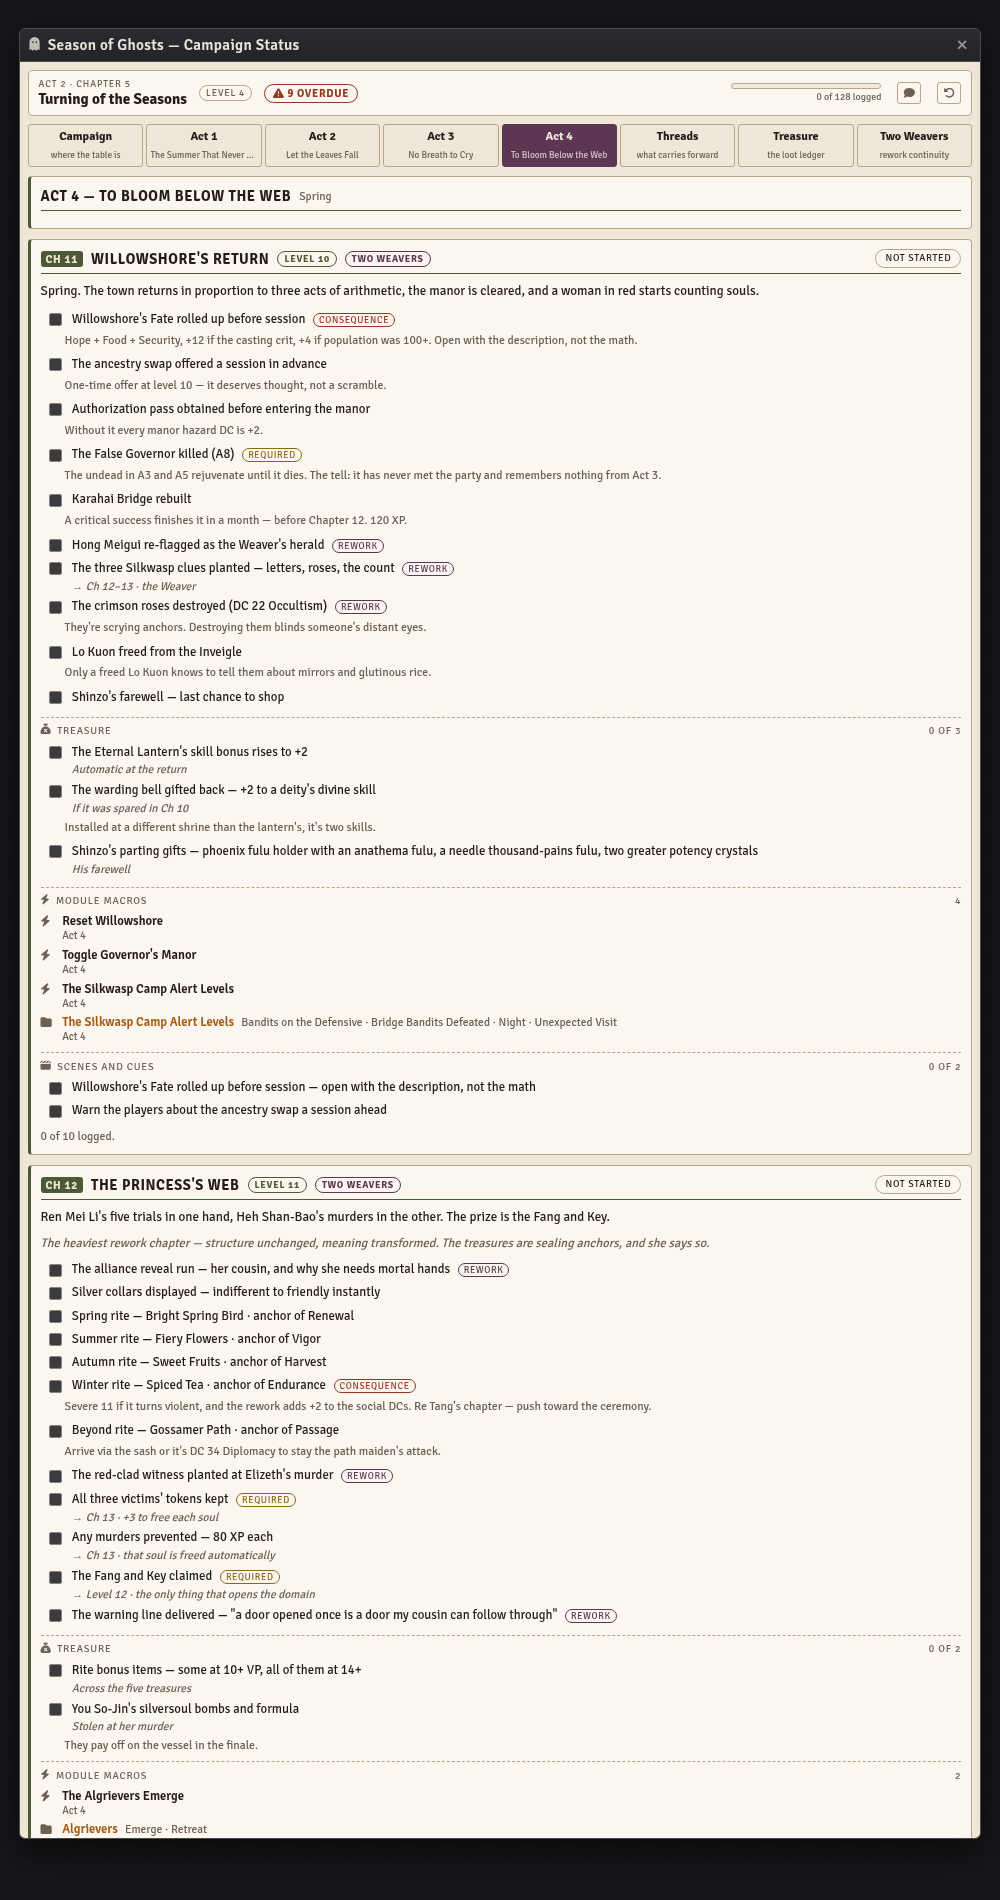
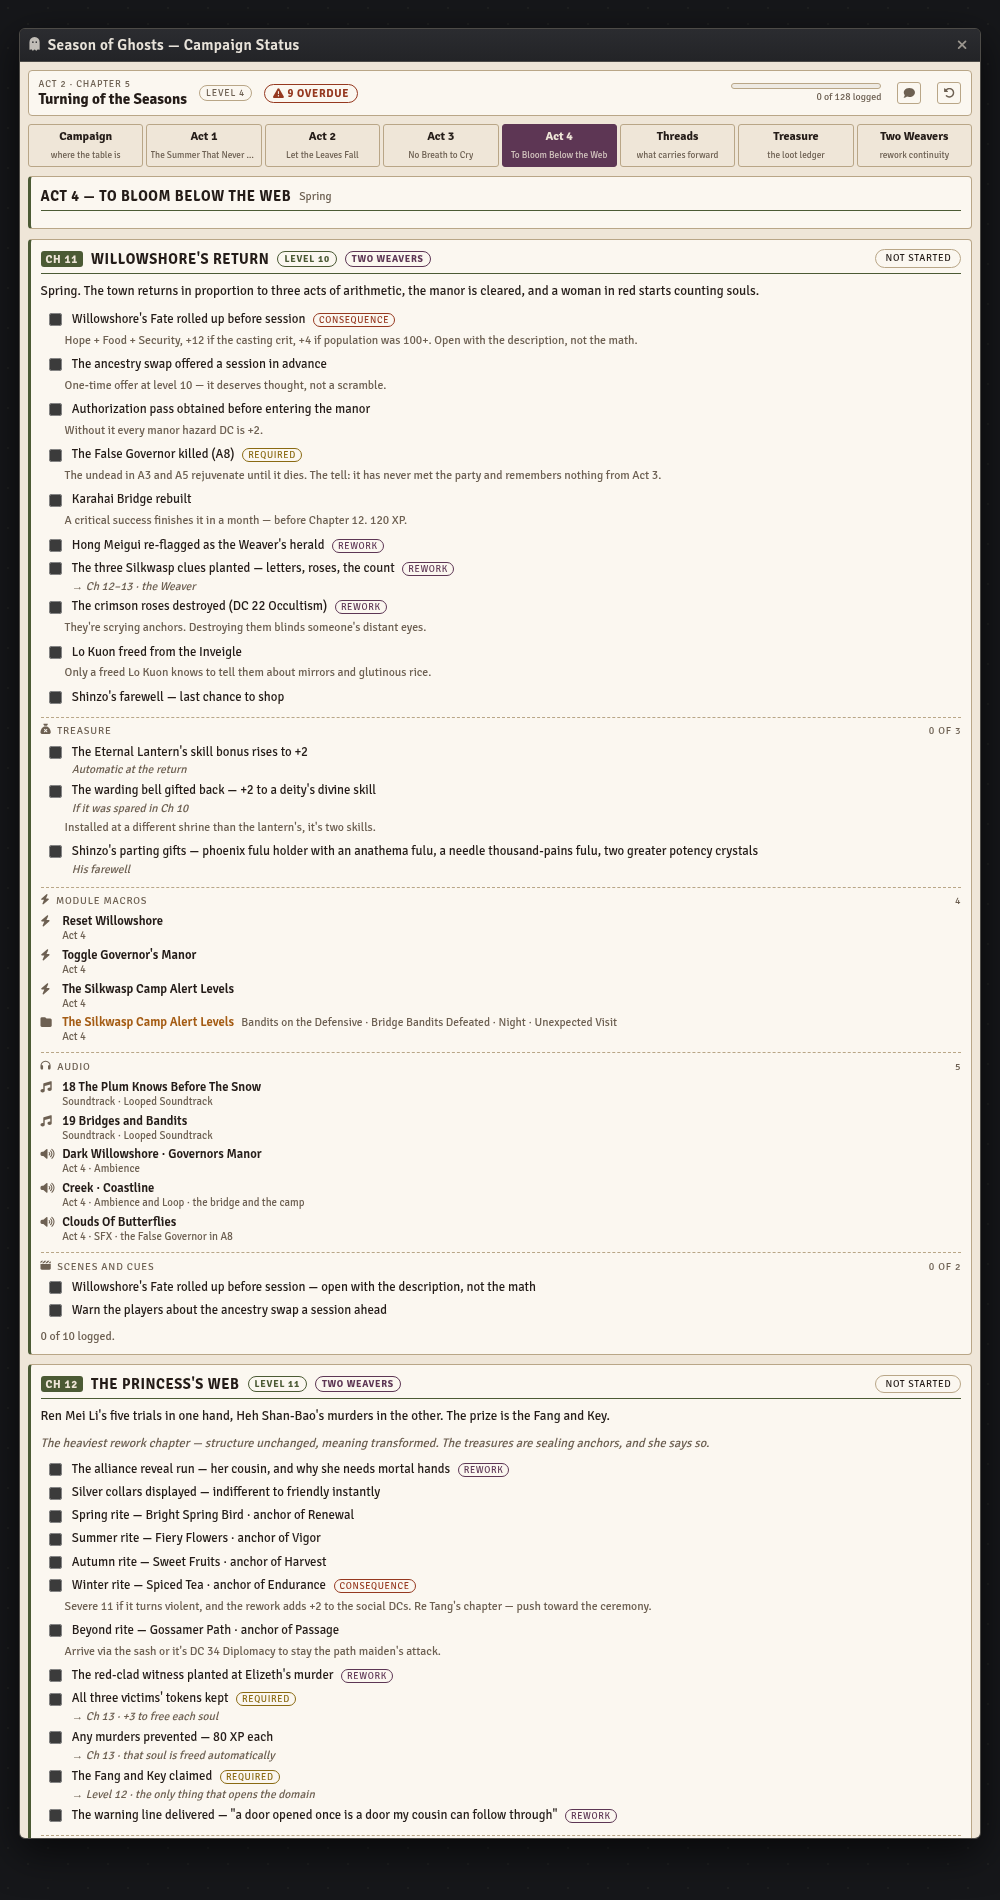
Campaign tracker: the module's playlists, per chapter
Ambience, loops, and SFX matched to the beats that want them — Arms of the
Drowned against the Bridge Shrine haunt, Barn Fire against week 8, Old Tree
Falling against the same D2 beat as the Sugi Tree Falls macros.

The looped soundtrack lines up with the chapters almost exactly, so all 21
numbered tracks are placed against the chapter each was written for, from
02 The Summer That Never Was to 22 The Governor's Den. Checked: every
number 02-22 appears once, none missing, none doubled.

Generic beds present in every act — Indoors, Woods, Willowshore, the Mist
and Fog set, the River loop — live under "Always to hand" on the campaign
tab with the Submacros and the theme, rather than repeating thirteen times.

Four cues that wouldn't pin down are marked "placed by guess" in place.

Changed region(s): [[0.031, 0.5589, 0.651, 0.9626], [0.868, 0.7142, 0.961, 0.7453]]

diff --git a/macros/season-of-ghosts/campaign-status-tracker.js b/macros/season-of-ghosts/campaign-status-tracker.js
@@ -508,6 +508,87 @@ const MODULE_MACROS = {
   ]
 };
 
+/* -------------------------------------------------- the module's playlists
+   The same module ships playlists per act — Ambience, Loop, and SFX — plus a
+   22-track looped soundtrack whose names line up with the chapters almost
+   exactly. Listed the same way as the macros: reference, not remote control.
+
+   `always` holds the generic beds that appear in nearly every act's Ambience
+   list, so they aren't repeated against all thirteen chapters. */
+const AUDIO = {
+  always: [
+    { name: "Indoors · Woods · Willowshore · Willowshore Hinterlands", from: "Ambience, every act" },
+    { name: "Mist Indoors · Mist Outdoors · Dense Fog", from: "Ambience, every act" },
+    { name: "River", from: "Loop, Acts 1–2 and 4" }
+  ],
+  chapters: {
+    1: [{ name: "Occupied Willowshore", from: "Act 1 · Ambience" },
+        { name: "Eternal Lantern", from: "Act 1 · Loop" },
+        { name: "Lighting The Eternal Lantern", from: "Act 1 · SFX" }],
+    2: [{ name: "Occupied Willowshore", from: "Act 1 · Ambience" },
+        { name: "Rowdy Celebration", from: "Act 1 · Loop" },
+        { name: "Rowdy Celebration 1", from: "Act 1 · SFX" }],
+    3: [{ name: "Canary Inn", from: "Act 1 · Ambience" },
+        { name: "Singing", from: "Act 1 · Loop", note: "the Canary Inn approach" },
+        { name: "Wind", from: "Act 1 · Ambience" }],
+    4: [{ name: "The Lumber Camp", from: "Act 1 · Ambience" },
+        { name: "Ritual Chanting", from: "Act 1 · Loop" },
+        { name: "Interrupting The Ritual", from: "Act 1 · SFX", note: "cut the chant the instant it breaks" }],
+    5: [{ name: "Festival", from: "Act 2 · Ambience", note: "week 3" },
+        { name: "Barn Fire", from: "Act 2 · Ambience", note: "week 8" },
+        { name: "Feast Of The Kami", from: "Act 2 · Ambience", note: "week 10" }],
+    6: [{ name: "Rain · Thunderstorm", from: "Act 2 · Ambience", note: "days 2 and 3" },
+        { name: "Waterfall", from: "Act 2 · Loop", note: "the Mountain Shrine" },
+        { name: "Arms of the Drowned", from: "Act 2 · SFX", note: "the Bridge Shrine haunt" },
+        { name: "Terrifying Roar", from: "Act 2 · SFX" },
+        { name: "Lightning Bolt", from: "Act 2 · SFX", note: "Iogaka" }],
+    7: [{ name: "Old Large Monastery", from: "Act 2 · Ambience" },
+        { name: "Kugaptees Grave", from: "Act 2 · Ambience", note: "E16" }],
+    8: [{ name: "Governor's Manor", from: "Act 3 · Ambiances" },
+        { name: "Dark Willowshore", from: "Act 3 · Ambiances" },
+        { name: "Buildings Collapsing", from: "Act 3 · Loop", note: "the Structural Collapse" },
+        { name: "Pounding at the Manor Walls · Howling Crowd", from: "Act 3 · Loop", note: "the nightly crowd" },
+        { name: "Mindscape Shift", from: "Act 3 · SFX" },
+        { name: "The Manor is Breached", from: "Act 3 · SFX" }],
+    9: [{ name: "Seance 1 · Seance 2", from: "Act 3 · Seance", note: "Event 12" },
+        { name: "Ending the Seance", from: "Act 3 · SFX" },
+        { name: "Borderlands", from: "Act 3 · Ambiances", note: "Between Life and Death" },
+        { name: "Portal Opens", from: "Act 3 · SFX", guess: true }],
+    10: [{ name: "Karahai Village Day · Karahai Village Night", from: "Act 3 · Ambiances" },
+         { name: "Karahai Fortress", from: "Act 3 · Ambiances and Loop" },
+         { name: "Dining Hall · Shrine · Baths", from: "Act 3 · Loop", note: "fortress rooms" },
+         { name: "Invisible Flames", from: "Act 3 · Ambiances", guess: true },
+         { name: "Warding Bell", from: "Act 3 · SFX", note: "C11" }],
+    11: [{ name: "Dark Willowshore · Governors Manor", from: "Act 4 · Ambience" },
+         { name: "Creek · Coastline", from: "Act 4 · Ambience and Loop", note: "the bridge and the camp" },
+         { name: "Clouds Of Butterflies", from: "Act 4 · SFX", note: "the False Governor in A8" }],
+    12: [{ name: "Softly Playing Flute", from: "Act 4 · Ambience", note: "the yohoi fears it" },
+         { name: "Creaky Building", from: "Act 4 · Ambience", guess: true }],
+    13: [{ name: "Below Kugaptees Claw · Kuraptees Rise", from: "Act 4 · Ambience" },
+         { name: "Old Tree Falling", from: "Act 4 · SFX", note: "D2, with the Sugi Tree Falls macros" },
+         { name: "Crashing Arms", from: "Act 4 · SFX", note: "the Sealing's pulses", guess: true },
+         { name: "Death Roar · Demonic Roar", from: "Act 4 · SFX" },
+         { name: "Mindscape Shift", from: "Act 4 · SFX" }]
+  },
+  /* The looped soundtrack, by the chapter each track was clearly written for. */
+  track: {
+    1: ["02 The Summer That Never Was", "03 Relight the Eternal Lantern"],
+    2: ["04 Town of Willowshore"],
+    3: ["06 The Hinterlands", "05 The Mysterious Merchant"],
+    4: ["07 The Wall of Ghosts", "08 Horror From Beyond"],
+    5: ["09 Let The Leaves Fall", "10 Researching The Curse", "13 First Long Night"],
+    6: ["11 The Pilgrim's Path"],
+    7: ["12 Tan Sugi Monastery"],
+    8: ["14 Oblivion of Truth", "17 Worlds Within the Mind"],
+    9: ["15 The Ritual"],
+    10: ["16 Fortress of Karahai"],
+    11: ["18 The Plum Knows Before The Snow", "19 Bridges and Bandits"],
+    12: ["20 The Princess's Web"],
+    13: ["21 Into the Corruption", "22 The Governor's Den"]
+  },
+  theme: "01 Season of Ghosts"
+};
+
 /* ------------------------------------------------------ the rework tracker */
 const REWORK = {
   pitch: "The book sets jorogumo politics beside the Kugaptee plot. This welds them together: two jorogumo, one patron and one villain, turn the stewardship trials into a sealing ritual and end the campaign with a two-phase boss — so the party fights Kugaptee without breaking the lore that he cannot truly die.",
@@ -664,6 +745,9 @@ class Campaign {
      get diluted by loot the party simply never found. */
   lootFor(n) { return LOOT[n] ?? []; }
   cuesFor(n) { return CUES[n] ?? []; }
+
+  audioFor(n) { return AUDIO.chapters[n] ?? []; }
+  trackFor(n) { return AUDIO.track[n] ?? []; }
 
   /* A chapter's module macros, plus any that could only be placed to its act,
      flagged so you can see the difference. */
@@ -892,6 +976,17 @@ class CSApp extends BaseApp {
     </div>`;
   }
 
+  audioList(list, tracks) {
+    if (!list.length && !tracks.length) return "";
+    return `<div class="macros">
+      ${tracks.map(t => `<div class="mrow"><i class="fa-solid fa-music"></i>
+          <span class="mname">${t}<small>Soundtrack · Looped Soundtrack</small></span></div>`).join("")}
+      ${list.map(a => `<div class="mrow"><i class="fa-solid fa-volume-high"></i>
+          <span class="mname">${a.name}<small>${a.from}${a.note ? ` · ${a.note}` : ""}</small></span>
+          ${a.guess ? `<span class="pip">placed by guess</span>` : ""}</div>`).join("")}
+    </div>`;
+  }
+
   /* ------------------------------------------------------------ campaign */
   campaignTab(ro) {
     const t = this.t, c = t.current, roll = t.rollup;
@@ -919,7 +1014,8 @@ class CSApp extends BaseApp {
       ${(() => {
         const cues = t.cuesFor(c.n), loot = t.lootFor(c.n).filter(i => !t.claimed(c.n, i.key));
         const macros = t.macrosFor(c.n);
-        if (!cues.length && !loot.length && !macros.length) return "";
+        const audio = t.audioFor(c.n), tracks = t.trackFor(c.n);
+        if (!cues.length && !loot.length && !macros.length && !audio.length) return "";
         return `
         <section class="panel" style="--tone:var(--ember)">
           <h3>Before this session <small>Chapter ${c.n}</small></h3>
@@ -933,6 +1029,10 @@ class CSApp extends BaseApp {
             ${macros.length ? `<div>
               <div class="subhead"><i class="fa-solid fa-bolt"></i> Module macros for this chapter</div>
               ${this.macroList(macros)}
+            </div>` : ""}
+            ${(audio.length || tracks.length) ? `<div>
+              <div class="subhead"><i class="fa-solid fa-headphones"></i> Audio to have queued</div>
+              ${this.audioList(audio, tracks)}
             </div>` : ""}
             ${loot.length ? `<div>
               <div class="subhead"><i class="fa-solid fa-sack-xmark"></i> Treasure still on the table</div>
@@ -955,8 +1055,9 @@ class CSApp extends BaseApp {
         </section>
 
         <section class="panel" style="--tone:var(--ember)">
-          <h3>Submacros <small>useful in any chapter</small></h3>
+          <h3>Always to hand <small>any chapter</small></h3>
           ${this.macroList(MODULE_MACROS.always)}
+          ${this.audioList(AUDIO.always, [AUDIO.theme])}
         </section>
 
         <section class="panel" style="--tone:var(--slate)">
@@ -1044,6 +1145,12 @@ class CSApp extends BaseApp {
         <div class="sub">
           <div class="subhead"><i class="fa-solid fa-bolt"></i> Module macros <span>${t.macrosFor(c.n).length}</span></div>
           ${this.macroList(t.macrosFor(c.n))}
+        </div>` : ""}
+
+        ${(t.audioFor(c.n).length || t.trackFor(c.n).length) ? `
+        <div class="sub">
+          <div class="subhead"><i class="fa-solid fa-headphones"></i> Audio <span>${t.audioFor(c.n).length + t.trackFor(c.n).length}</span></div>
+          ${this.audioList(t.audioFor(c.n), t.trackFor(c.n))}
         </div>` : ""}
 
         ${p.cueTotal ? `

diff --git a/macros/season-of-ghosts/README.md b/macros/season-of-ghosts/README.md
@@ -119,14 +119,22 @@ produced them.
 - **Module macros** per chapter — all 57 macros from the Season of Ghosts Foundry module's
   directory, named exactly as they appear there, with their folder. Reference only: they're
   run from the macro directory, so there's nothing to tick
+- **Audio** per chapter — the module's ambience, loops, and SFX matched to the beats that want
+  them, plus the looped soundtrack: all 21 numbered tracks placed against the chapter each was
+  written for, from *02 The Summer That Never Was* to *22 The Governor's Den*
 - A **Before this session** panel on the campaign tab surfacing the current chapter's cues and
   unclaimed treasure without hunting through tabs
 - The Two Weavers continuity checklist, the milestone-level table, and per-PC arcs
 - A spoiler-free chat recap: act, chapter, level, and the chapters behind them
 
-Where a module macro's chapter couldn't be pinned down it's flagged in place — `act only` for
-the ones placeable to an act but no further, `placed by guess` for the ones inferred from the
-name. Both are one-line edits in the `MODULE_MACROS` block near the top of the macro.
+Generic beds that appear in every act — Indoors, Woods, Willowshore, the Mist and Fog set, the
+River loop — sit on the campaign tab under **Always to hand** rather than repeating against all
+thirteen chapters, alongside the Submacros folder and the campaign theme.
+
+Where a macro or audio cue couldn't be pinned to a chapter it's flagged in place — `act only`
+for the ones placeable to an act but no further, `placed by guess` for the ones inferred from
+the name. Both are one-line edits in the `MODULE_MACROS` and `AUDIO` blocks near the top of
+the macro.
 
 ![An act tab, with checklist, treasure, module macros, and cues](../../screenshots/season-of-ghosts/campaign-status-act4.png)
 

diff --git a/CHANGELOG.md b/CHANGELOG.md
@@ -12,7 +12,7 @@
 - Campaign Status Tracker — a checklist across all thirteen chapters, with a Threads view
   that flags a prerequisite the moment the table reaches the chapter that needs it, a loot
   ledger of every named treasure, per-chapter scene and cue lists, and the Season of Ghosts
-  module's own macro directory mapped chapter by chapter
+  module's own macro directory and playlists mapped chapter by chapter
 - In the Ruins of Wisdom — Chapter 7's Tan Sugi monastery: statue purification with ordered
   events, sixteen areas, and an aftermath ledger feeding the Fall Downtime Tracker
 - Repository laid out for more than one collection — macros live under
